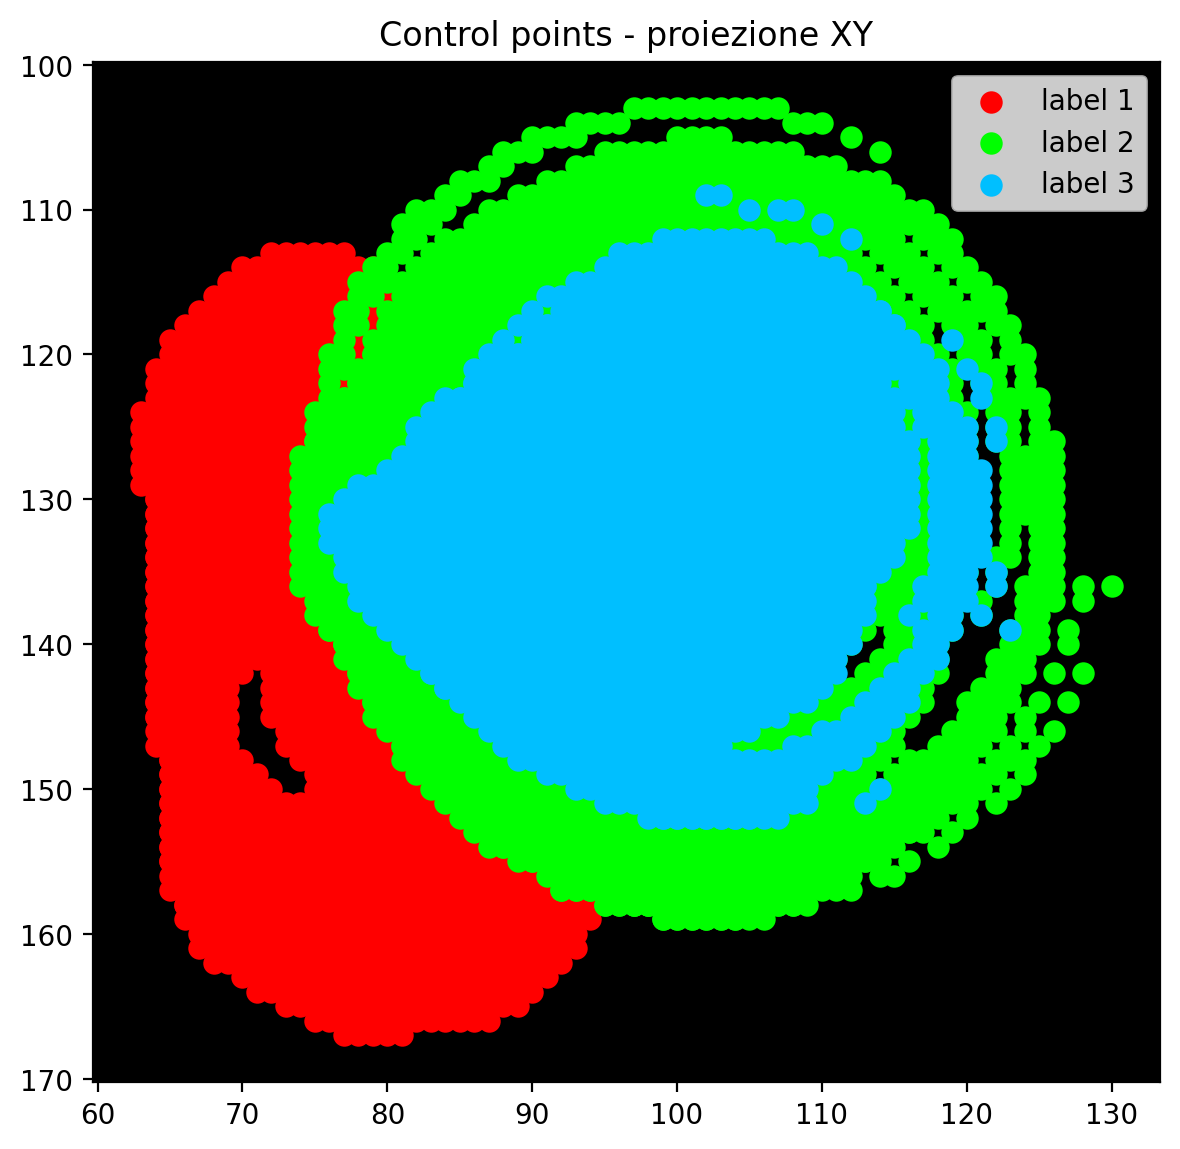
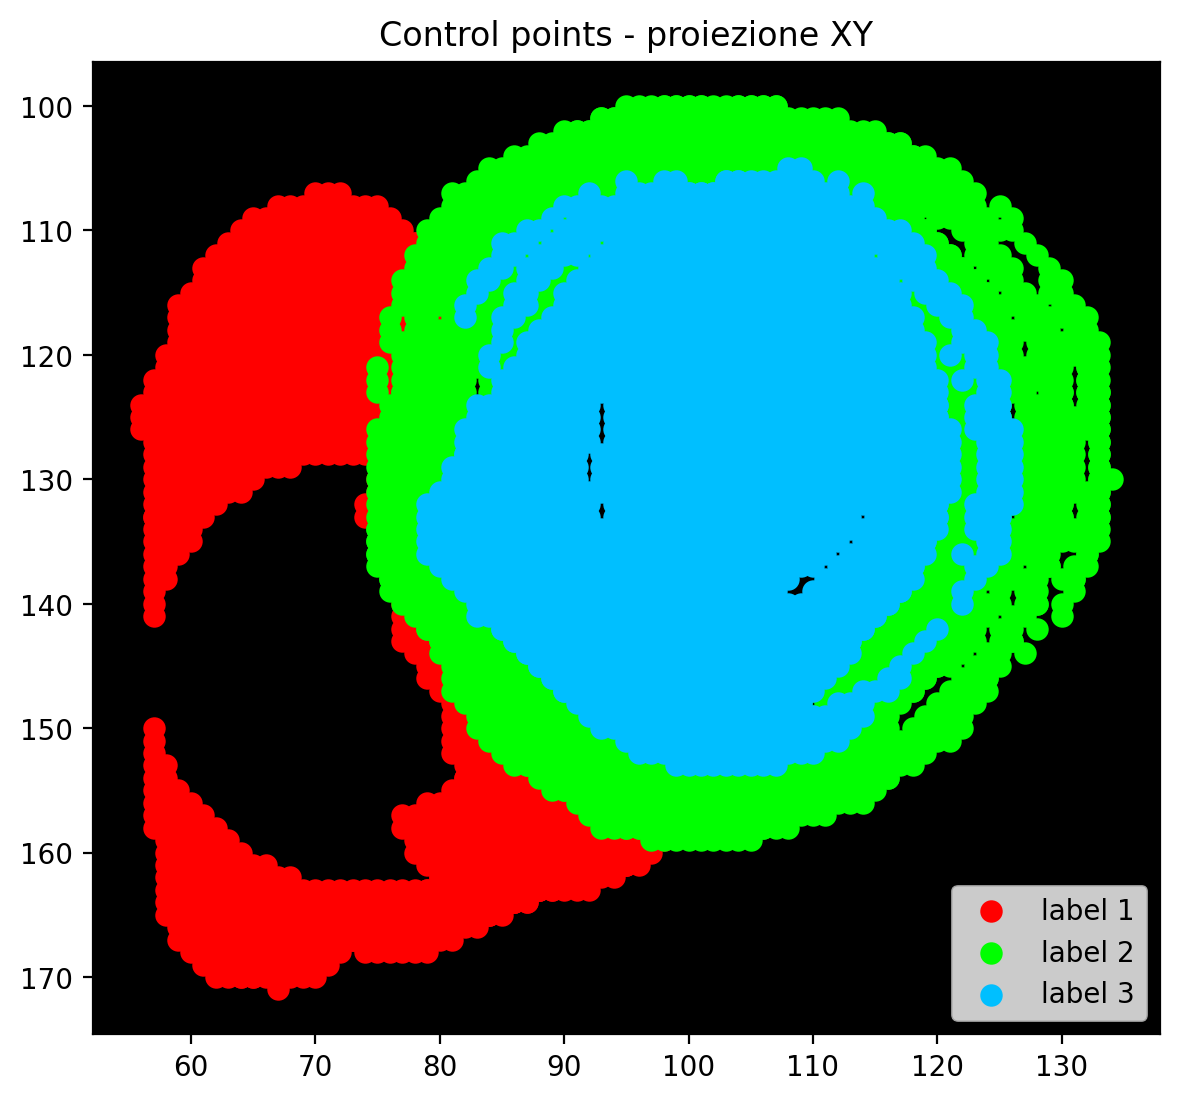
create control points images

diff --git a/train.py b/train.py
@@ -37,7 +37,7 @@ def main(config):
     #    device = config.trainer.device
 
     control_points = ControlPoints(config.model)
-    toy_mask = sitk.ReadImage("/home/renku/work/cardiac_deformation_final_dataset/patient001/labels/patient001_iframe0007.nii.gz", sitk.sitkUInt8)
+    toy_mask = sitk.ReadImage("/home/renku/work/s3-bucket/ACDC/training/patient001/patient001_frame01_gt.nii.gz", sitk.sitkUInt8)
     control_points.InitializeFromMask(toy_mask, num_points_per_label=2000)
     test_control_points_2d_3d(control_points, toy_mask)
 

diff --git a/src/model/control_points.py b/src/model/control_points.py
@@ -100,7 +100,7 @@ class ControlPoints:
 
 
         # initialize transform using the center of mass of the masks
-        initial_transform = sitk.CenteredTransformInitializer(fixed_reg, moving_reg, sitk.Euler3DTransform(), sitk.CenteredTransformInitializerFilter.GEOMETRY)
+        initial_transform = sitk.CenteredTransformInitializer(fixed_reg, moving_reg, sitk.Euler3DTransform(), sitk.CenteredTransformInitializerFilter.MOMENTS)
 
         # Registration Framework
         

diff --git a/src/trainer/__init__.py b/src/trainer/__init__.py
@@ -1,2 +1,2 @@
-from src.trainer.inferencer import Inferencer
-from src.trainer.trainer import Trainer
+# from src.trainer.inferencer import Inferencer
+# from src.trainer.trainer import Trainer
